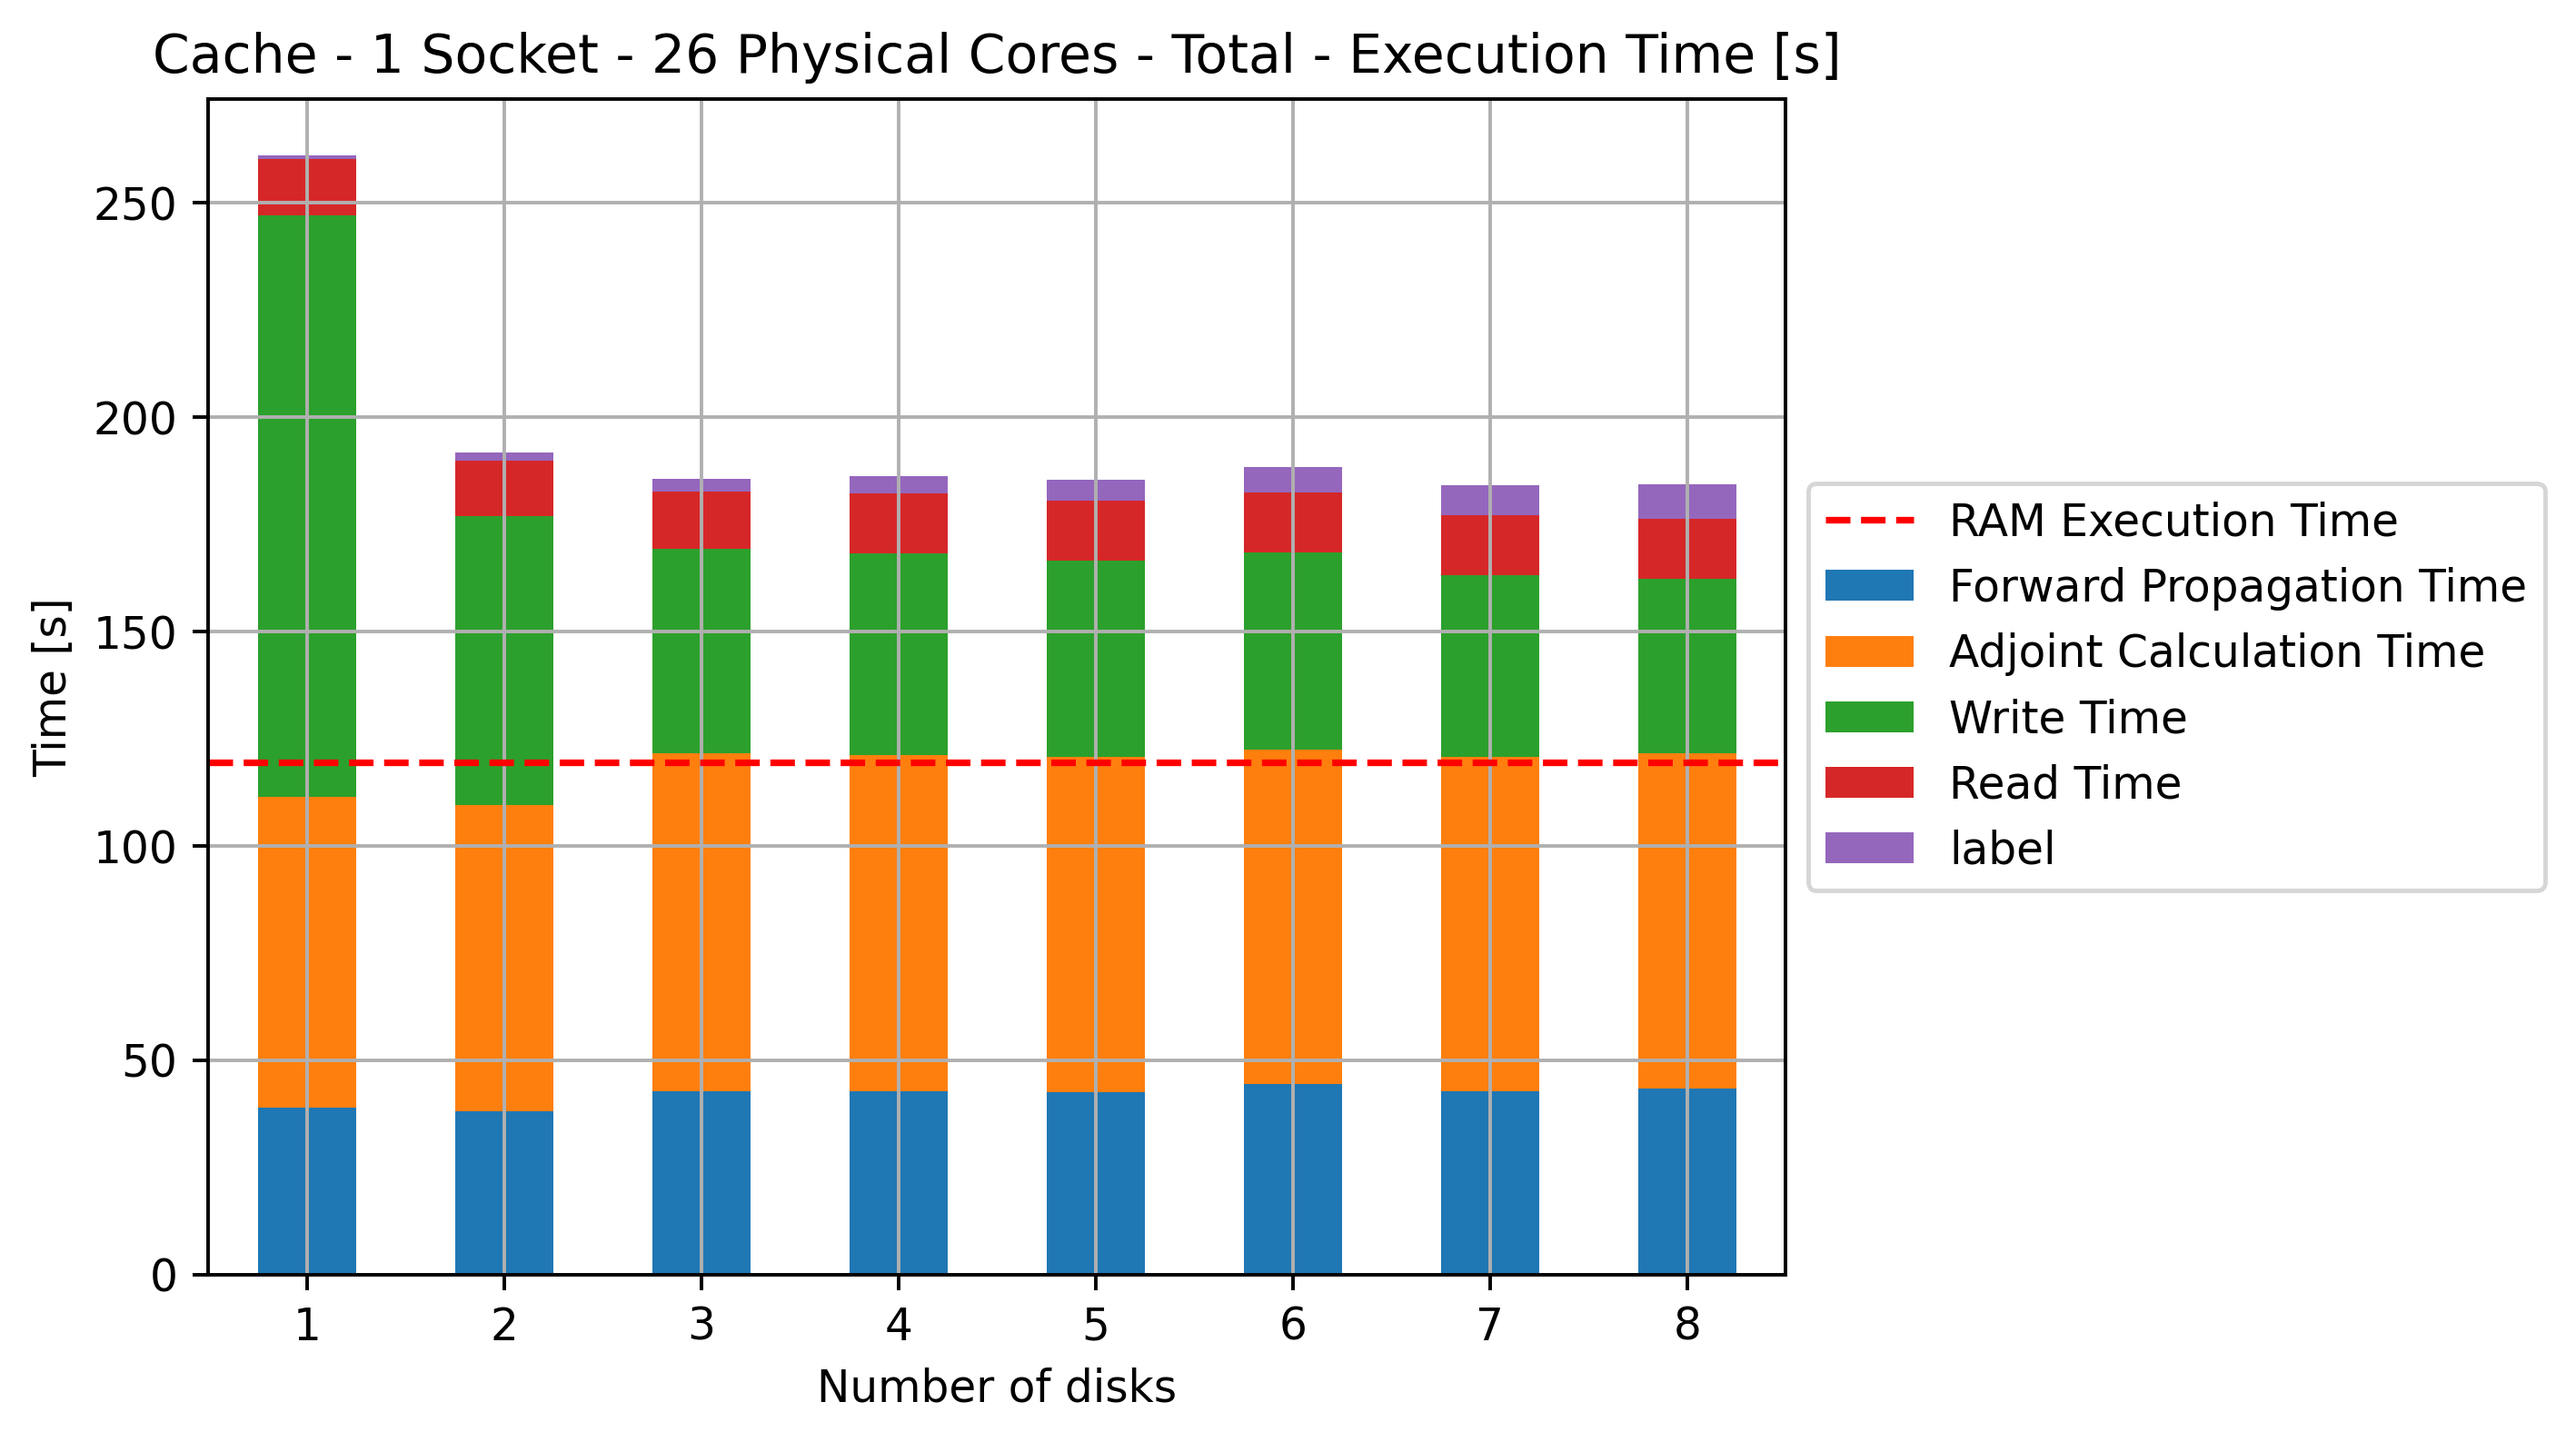
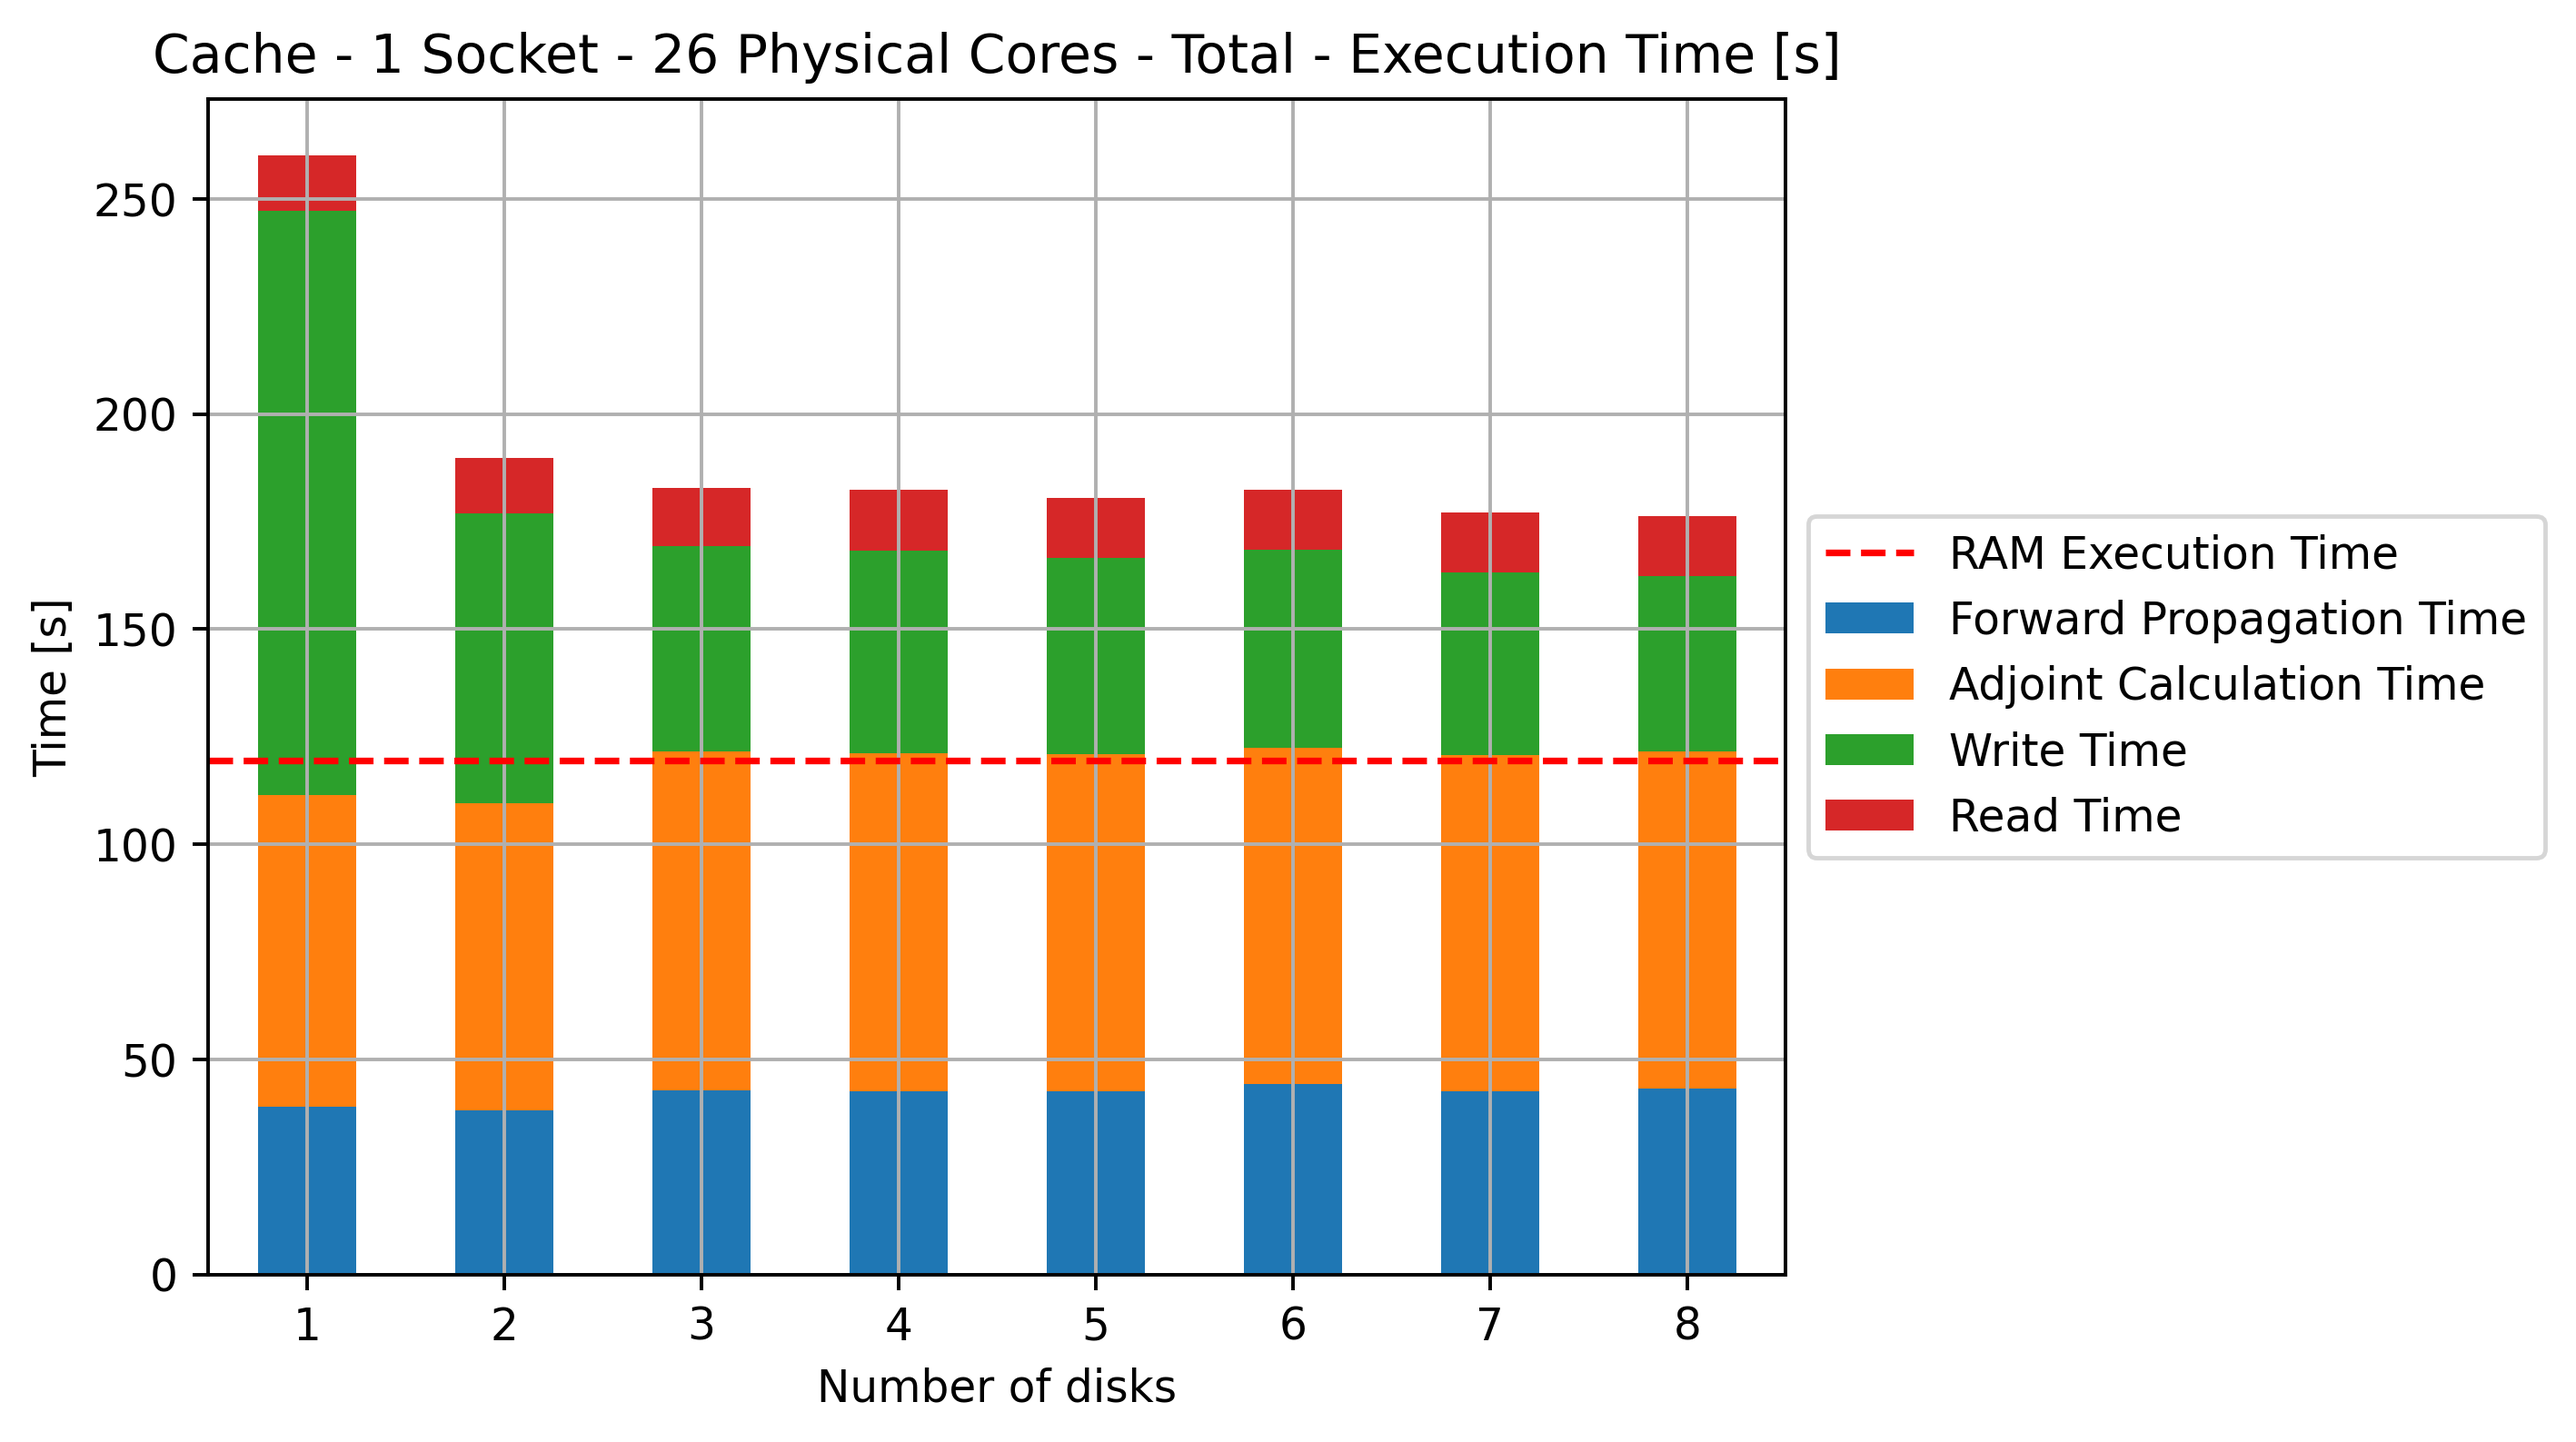
fix: remove label column to total execution time

diff --git a/plot/generate.py b/plot/generate.py
@@ -233,6 +233,8 @@ def compute_compare_attributes(dfs, labels, mode):
 
         result[name] = df.sort_values(by=['Disks', 'label'])
 
+    print(result)
+
     return result
 
 # Plot
@@ -413,6 +415,8 @@ def plot_total_exec_time(df, labels, **plot_args):
     plot_args['experiment'] =  "Execution Time [s]"
     plot_args['output'] = labels['plots']['total']['output'].format('exec-time')
     plot_args['label'] = list(df['label'].drop(index=0))
+
+    df = df[["Forward Propagation Time", "Adjoint Calculation Time", "Write Time", "Read Time"]]
 
     ram = df["Adjoint Calculation Time"].iloc[0] + df["Forward Propagation Time"].iloc[0]
     df = df.drop(index=(0))
